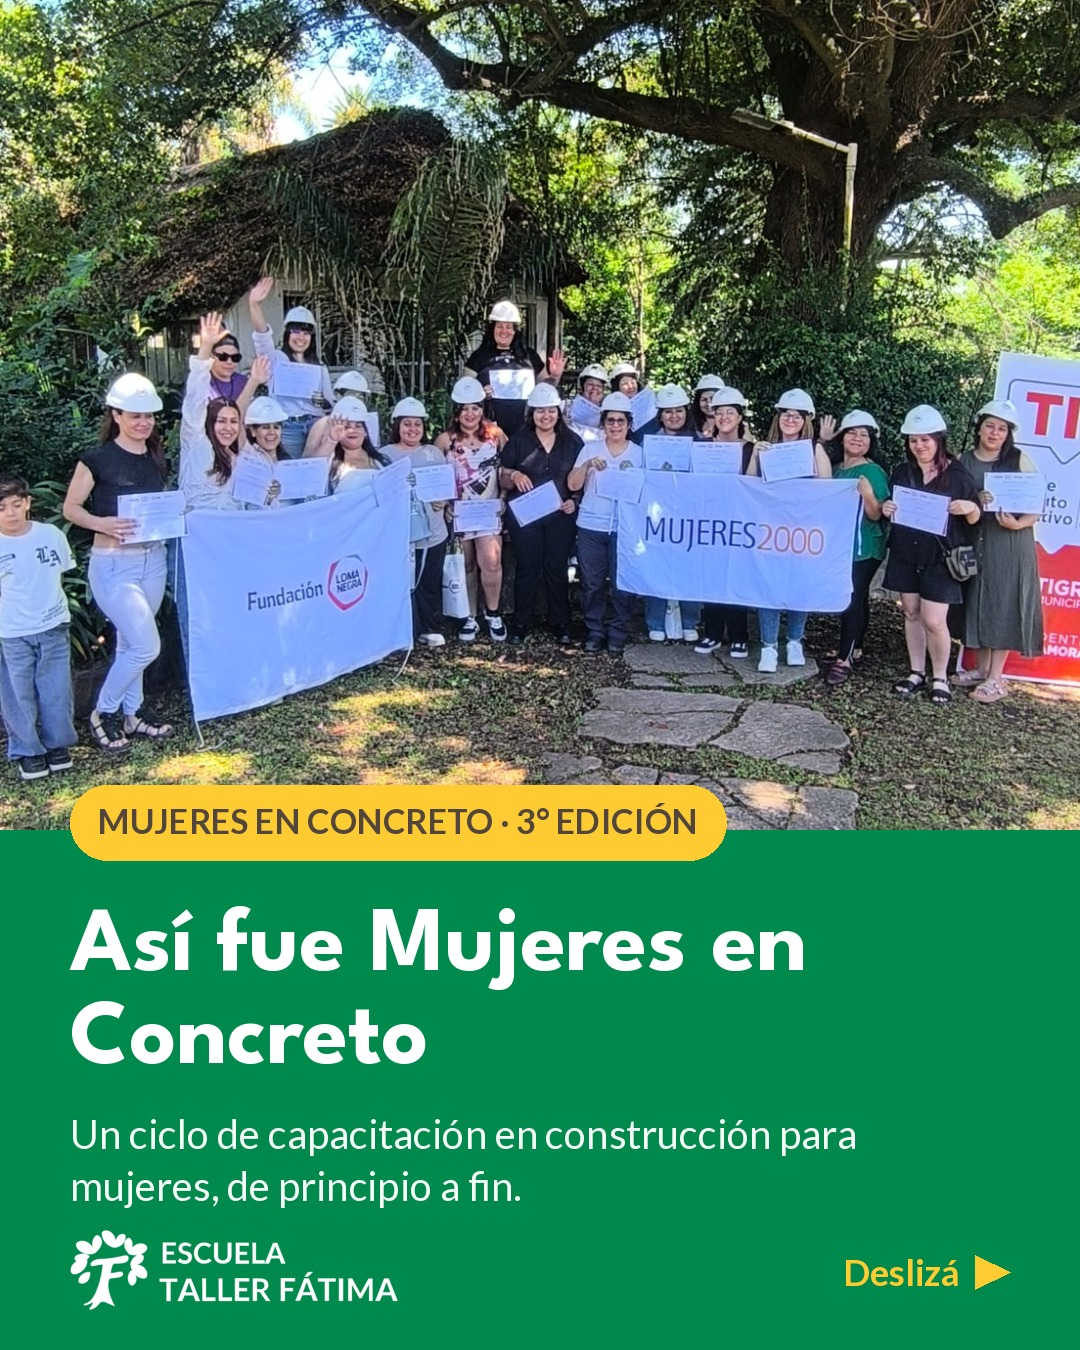
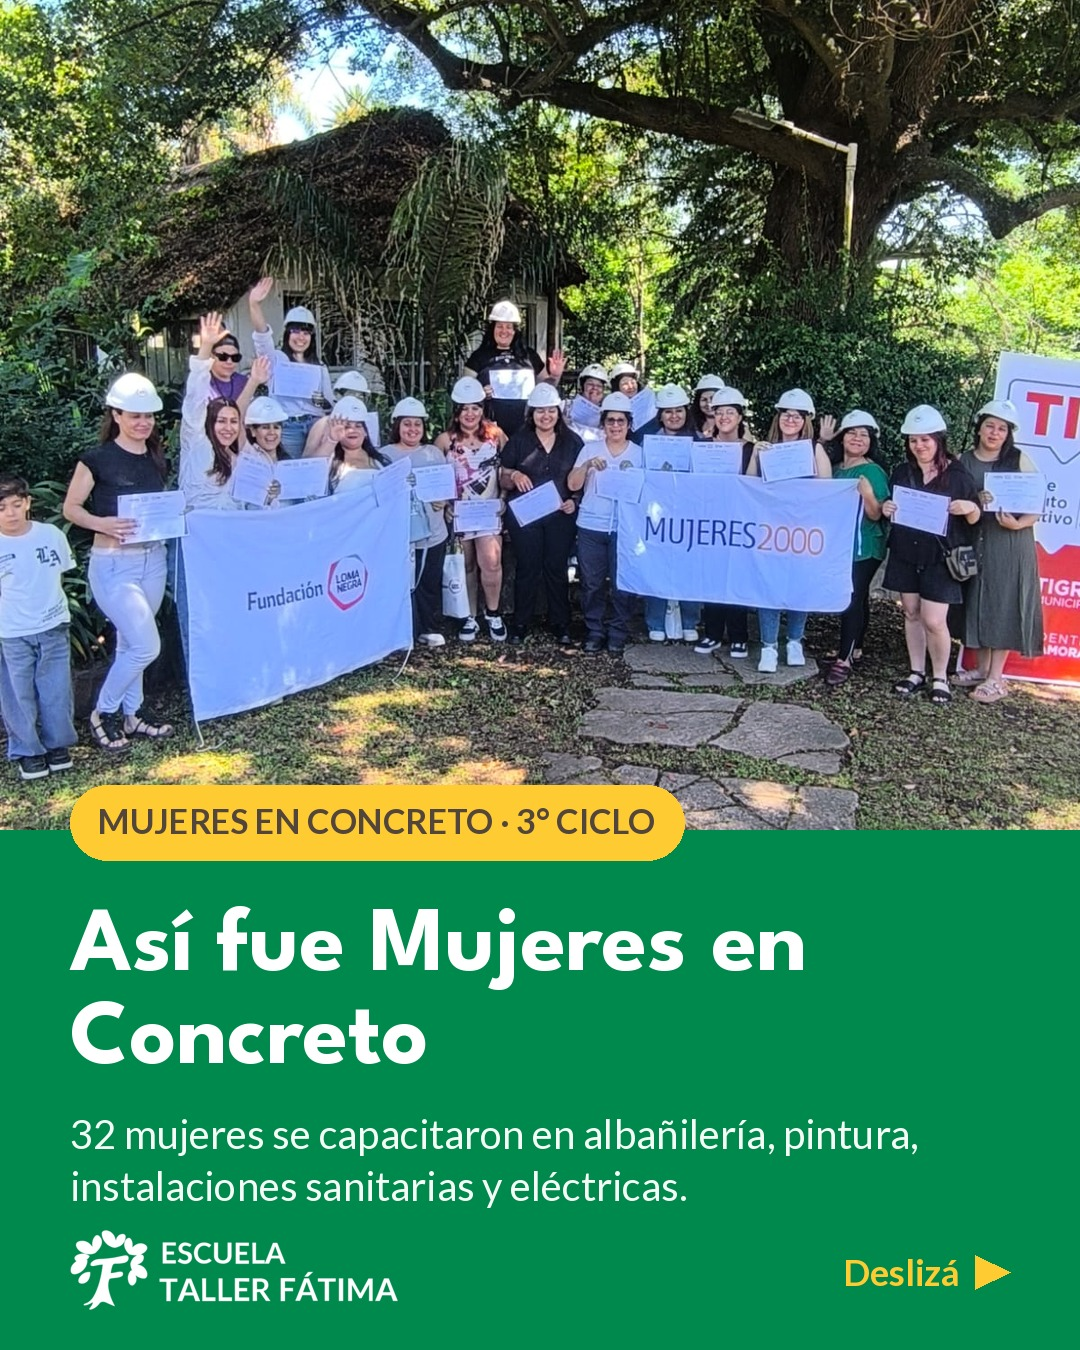
Fátima: texto de la clienta para Mujeres en Concreto
Claude-Session: https://claude.ai/code/session_01A1E79ha6BujniUrQ7LXZ3T

Changed region(s): [[0.0611, 0.8089, 0.8556, 0.9022], [0.5194, 0.56, 0.6722, 0.6533]]

diff --git a/clientes/tallerfatima/plan/index.html b/clientes/tallerfatima/plan/index.html
@@ -63,7 +63,7 @@ footer a{color:var(--agua)}
     <div>
       <h1>Publicaciones para aprobar</h1>
       <p>Estas son las piezas preparadas para <strong>@escuelatallerfatima</strong>, con día, hora y texto. Están hechas con fotos y videos del banco de la escuela y con los colores y tipografías del manual de marca. <strong>Nada se publica sin aprobación.</strong> Lo que aprueben sale solo a la hora indicada.</p>
-      <div class="upd" id="upd">Última actualización: jueves 19/11/2026 · 20:30 h · carrusel Mujeres en Concreto para hoy 21:00</div>
+      <div class="upd" id="upd">Última actualización: jueves 19/11/2026 · 20:40 h · texto nuevo del carrusel Mujeres en Concreto</div>
     </div>
     <aside class="how">
       <h2>Cómo aprobar</h2>
